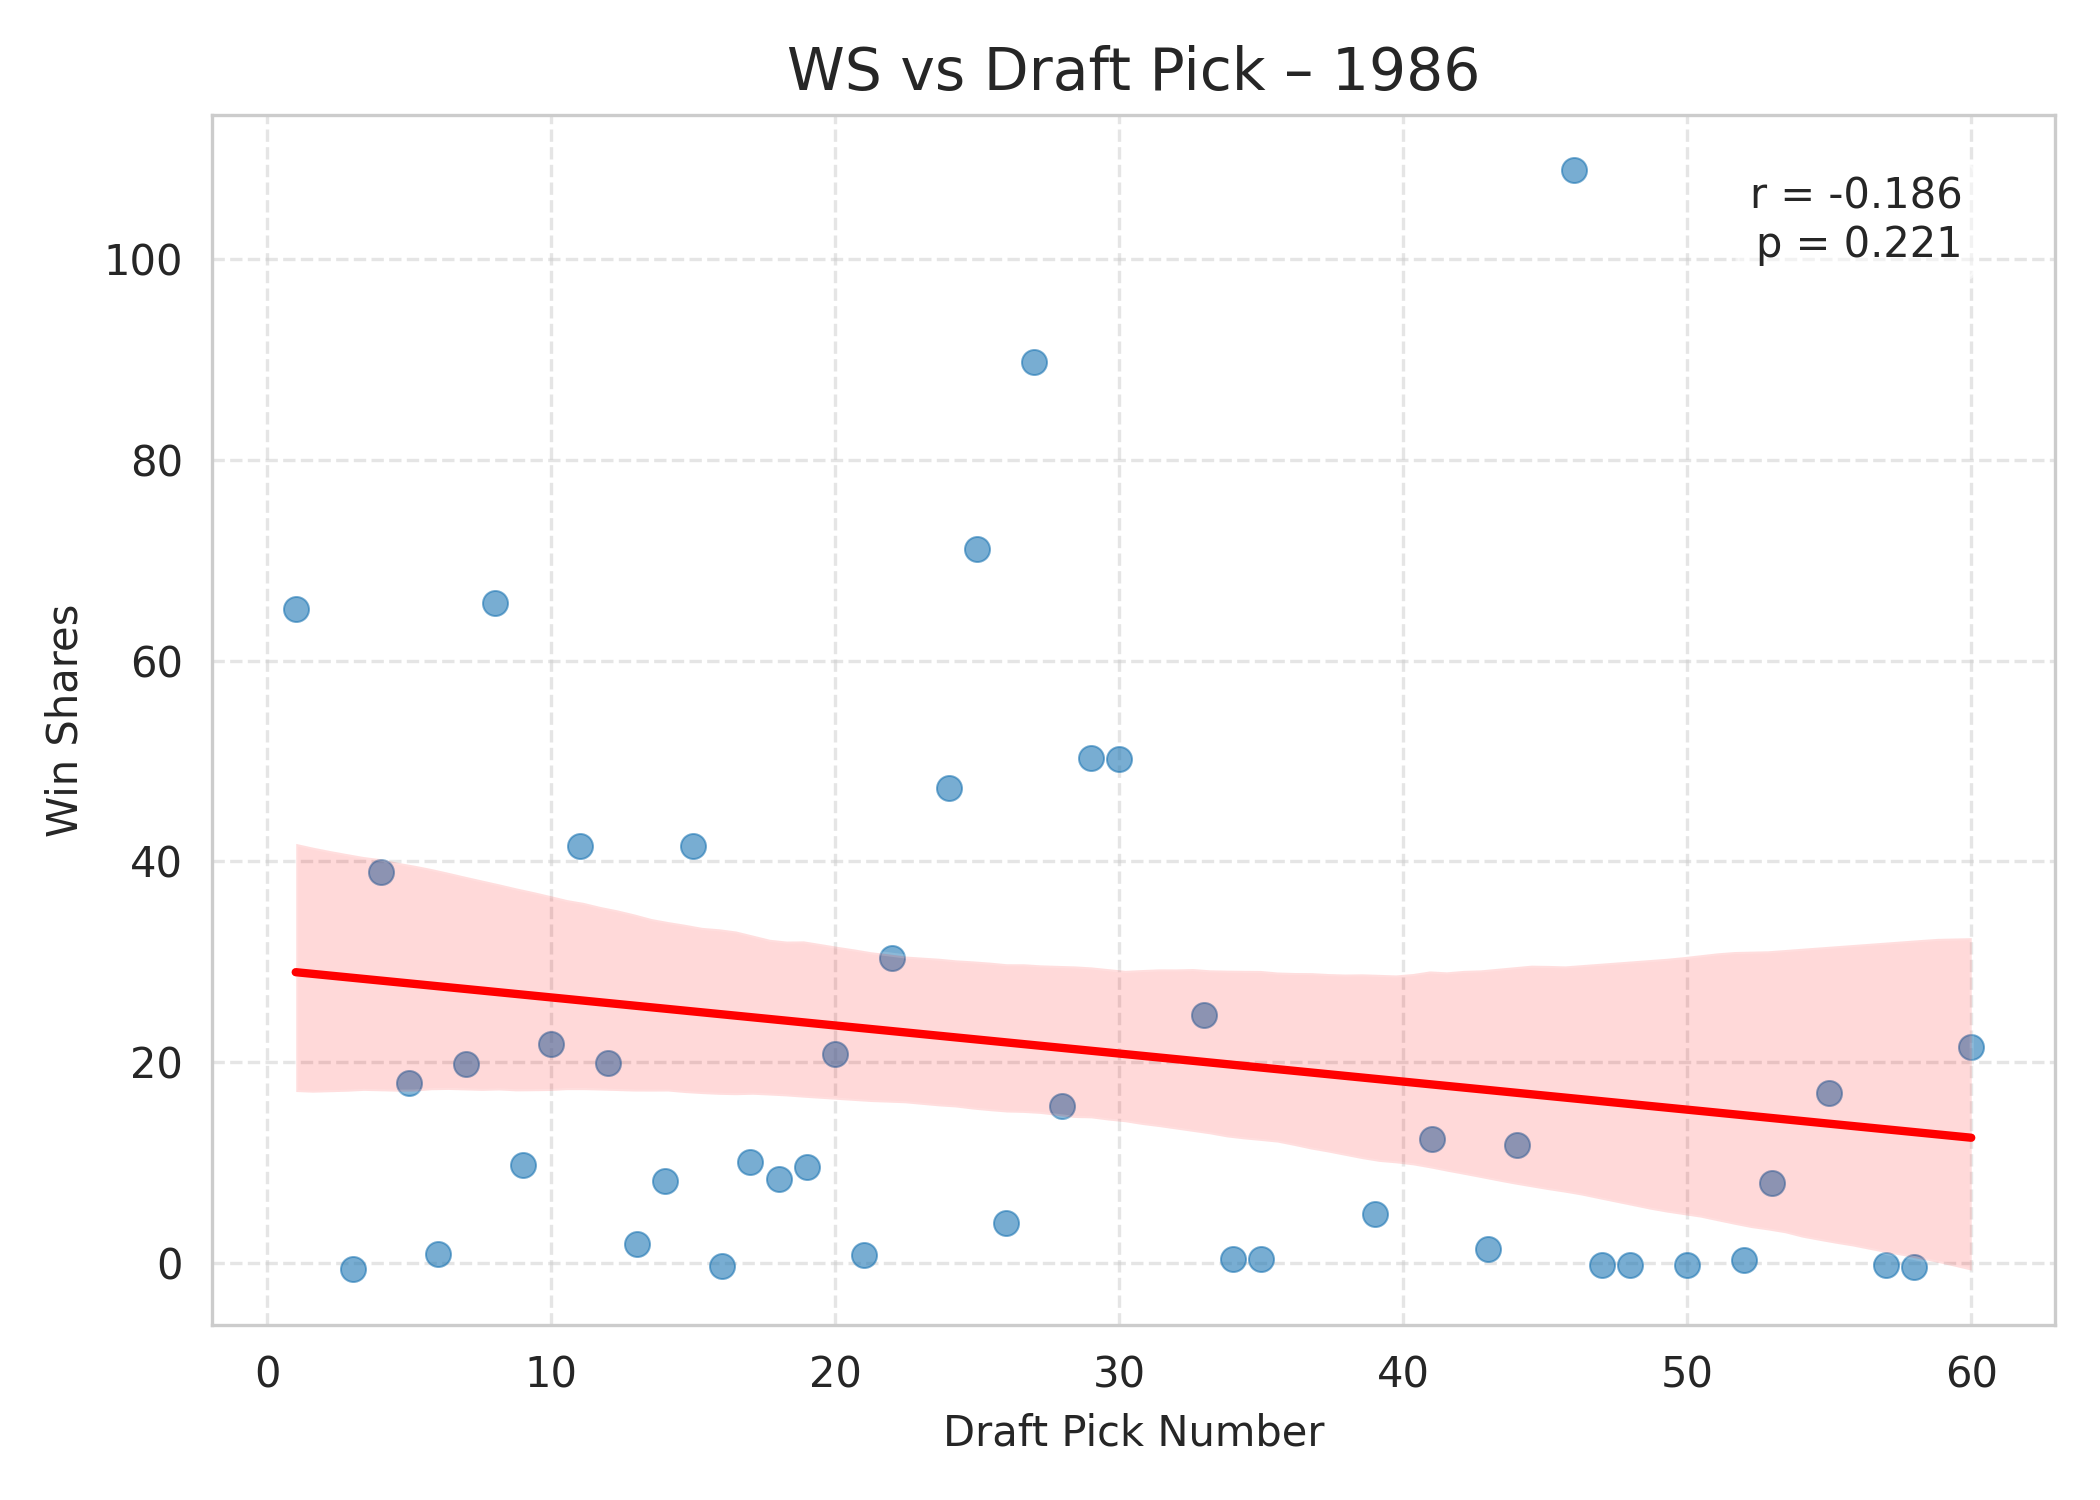
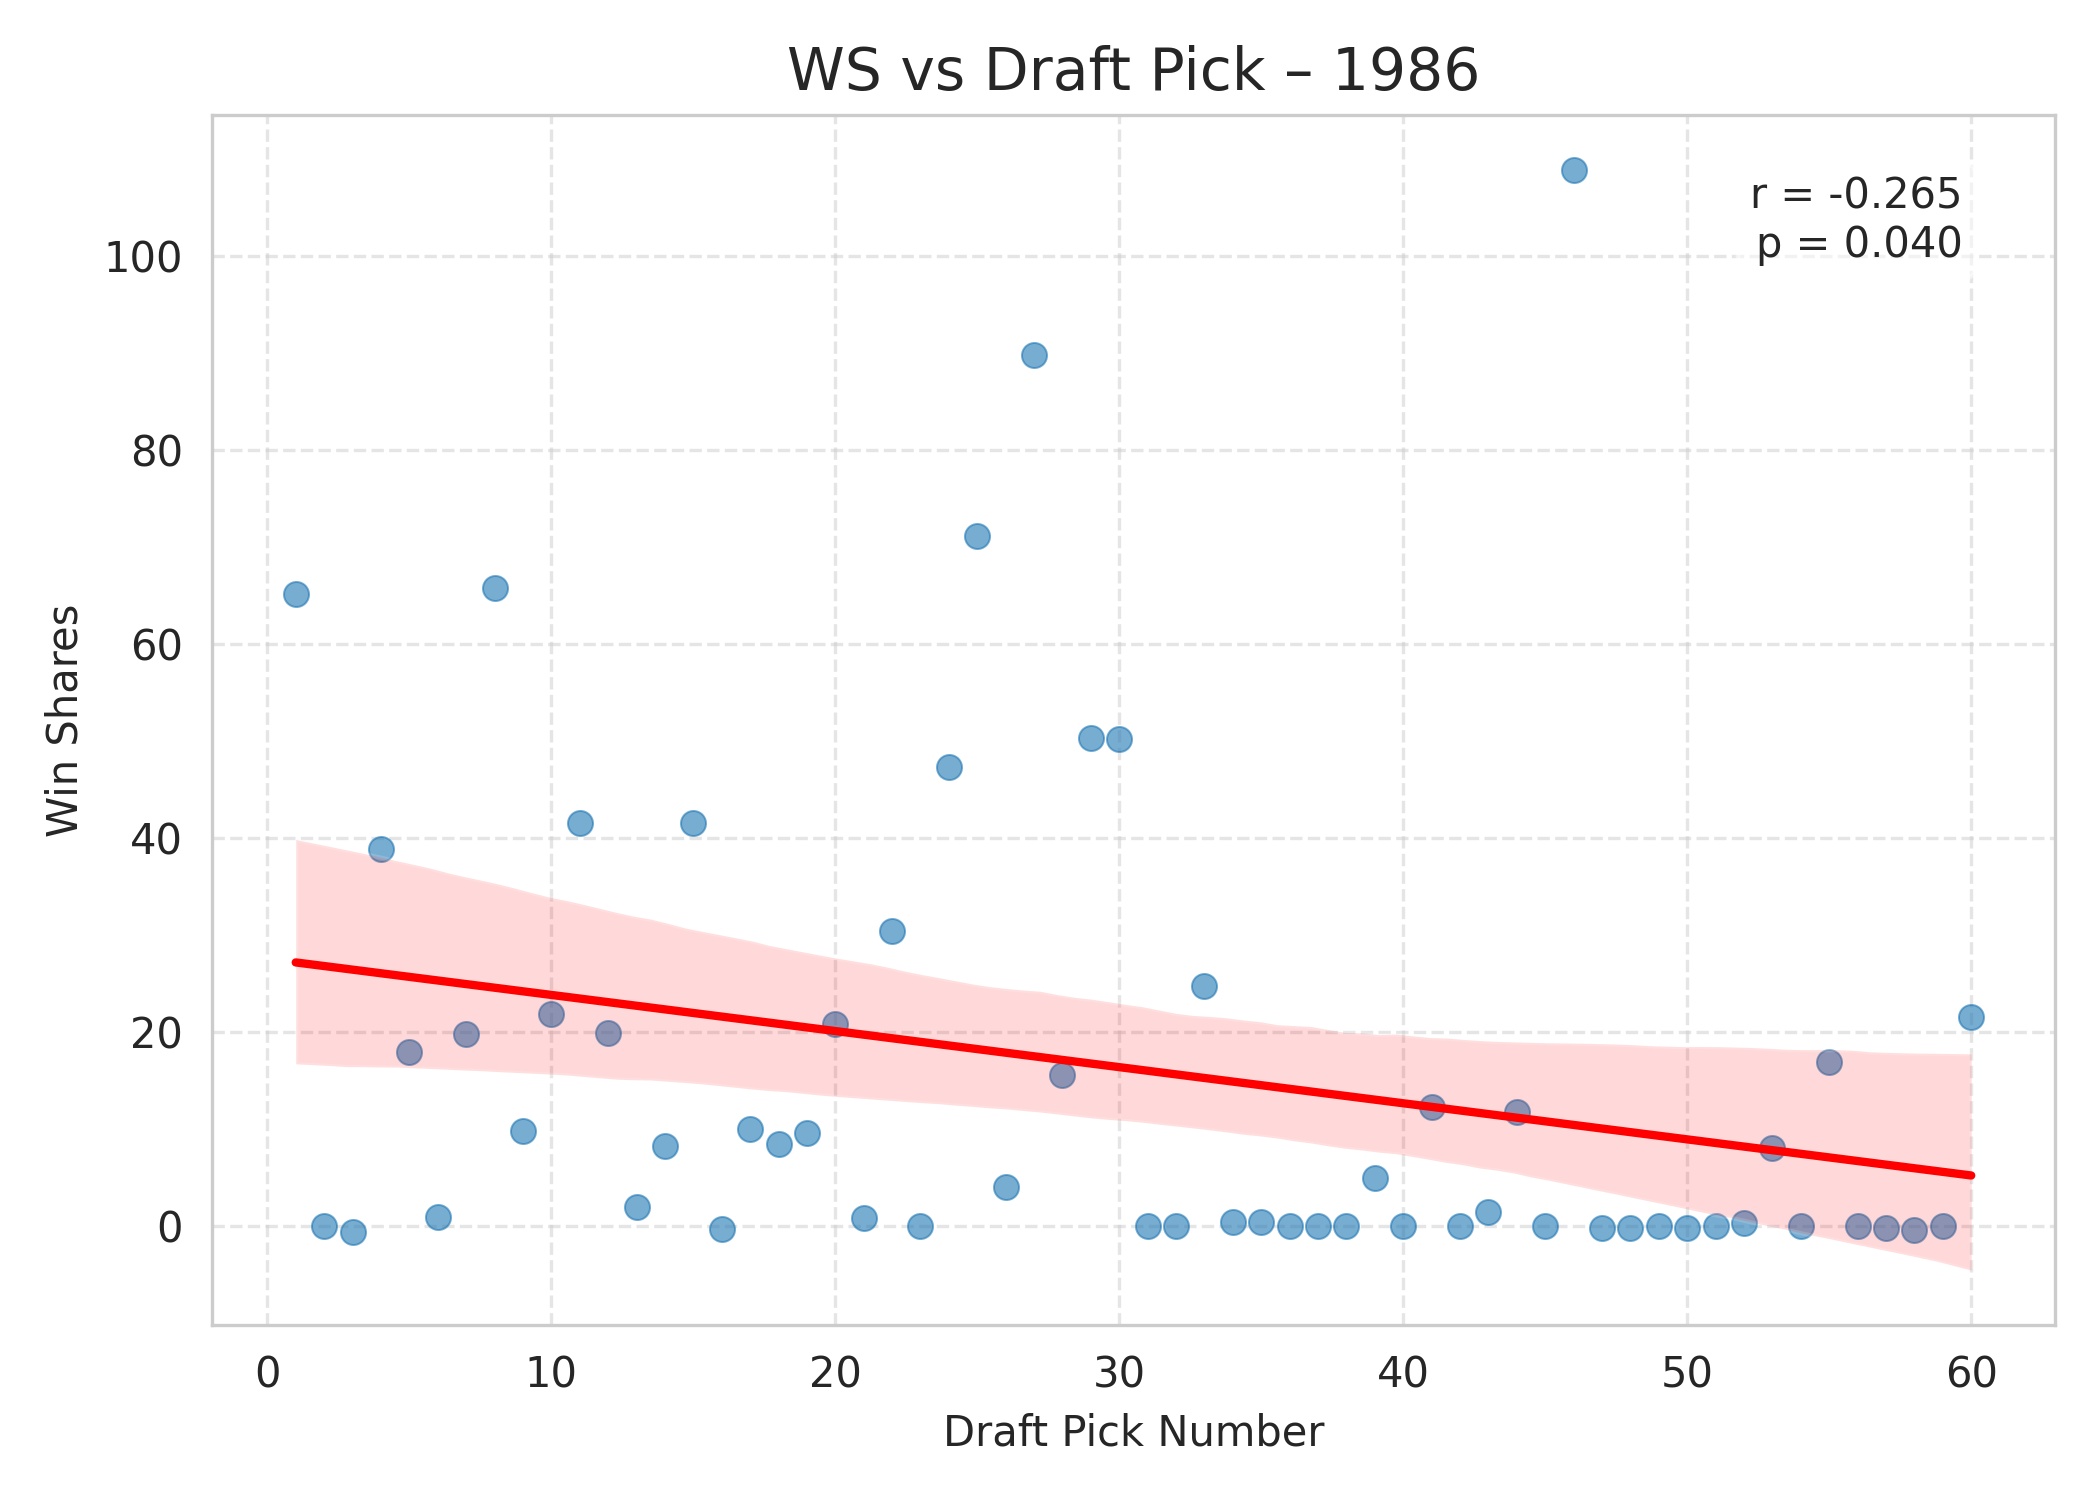
include zero values of data when analyzing

diff --git a/analysis/ws_pick.py b/analysis/ws_pick.py
@@ -18,10 +18,9 @@ df = pd.read_csv(input_path)
 pick_col = "Pk"
 ws_col = "Advanced_WS"
 
-# 4. Remove missing or zero values
-# Remove rows where either column is NaN or where Advanced_WS == 0
+# 4. Remove missing values
+# Remove rows where either the pick_col or ws_col column contains a missing value (NaN).
 df_clean = df[[pick_col, ws_col]].dropna()
-df_clean = df_clean[df_clean[ws_col] != 0]
 
 # 5. OLS regression
 X = sm.add_constant(df_clean[pick_col])

diff --git a/analysis/ws_pick_plot_1986_1996.py b/analysis/ws_pick_plot_1986_1996.py
@@ -19,9 +19,8 @@ year_col = "Year"
 pick_col = "Pk"
 ws_col = "Advanced_WS"
 
-# 4. Clean data
+# 4. Remove missing values
 df_clean = df[[year_col, pick_col, ws_col]].dropna()
-df_clean = df_clean[df_clean[ws_col] != 0]
 
 # 5. Define target years
 target_years = [1986, 1996]

diff --git a/analysis/ws_pick_yearly.py b/analysis/ws_pick_yearly.py
@@ -19,9 +19,8 @@ year_col = "Year"
 pick_col = "Pk"
 ws_col = "Advanced_WS"
 
-# 4. Clean data
+# 4. Remove missing values
 df_clean = df[[year_col, pick_col, ws_col]].dropna()
-df_clean = df_clean[df_clean[ws_col] != 0]
 
 # 5. Compute correlation by year
 corr_list = []
